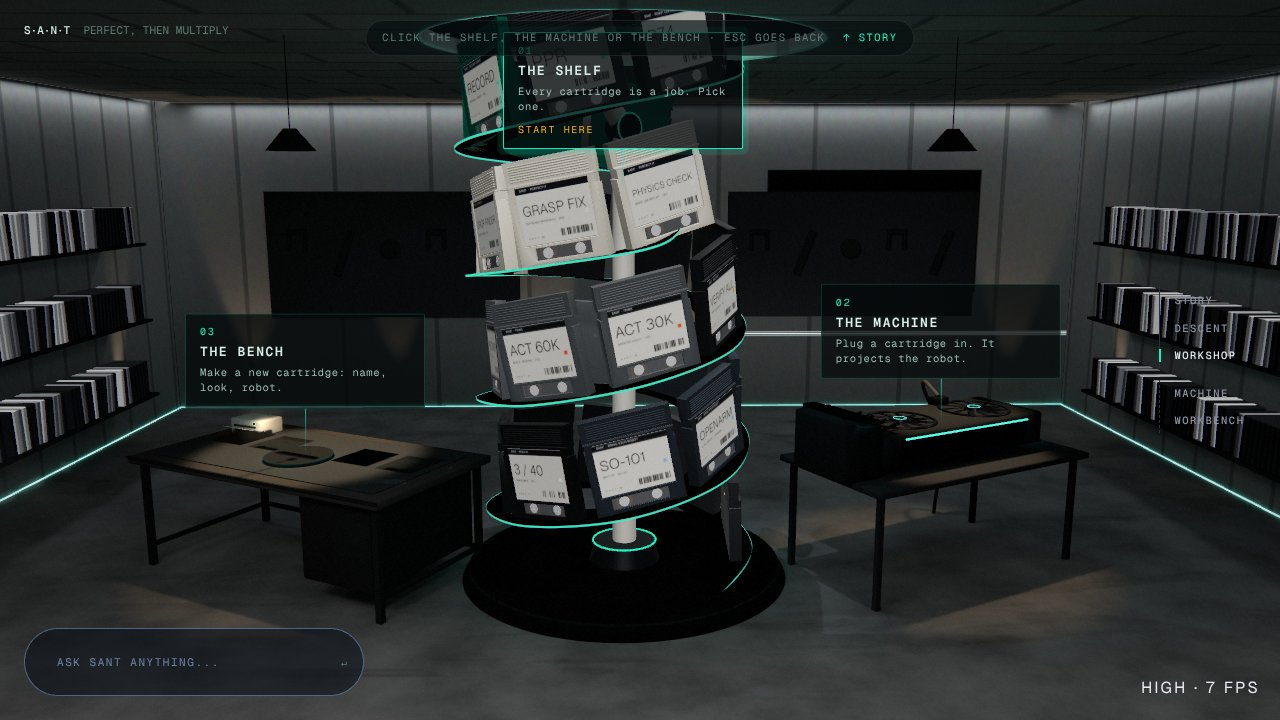
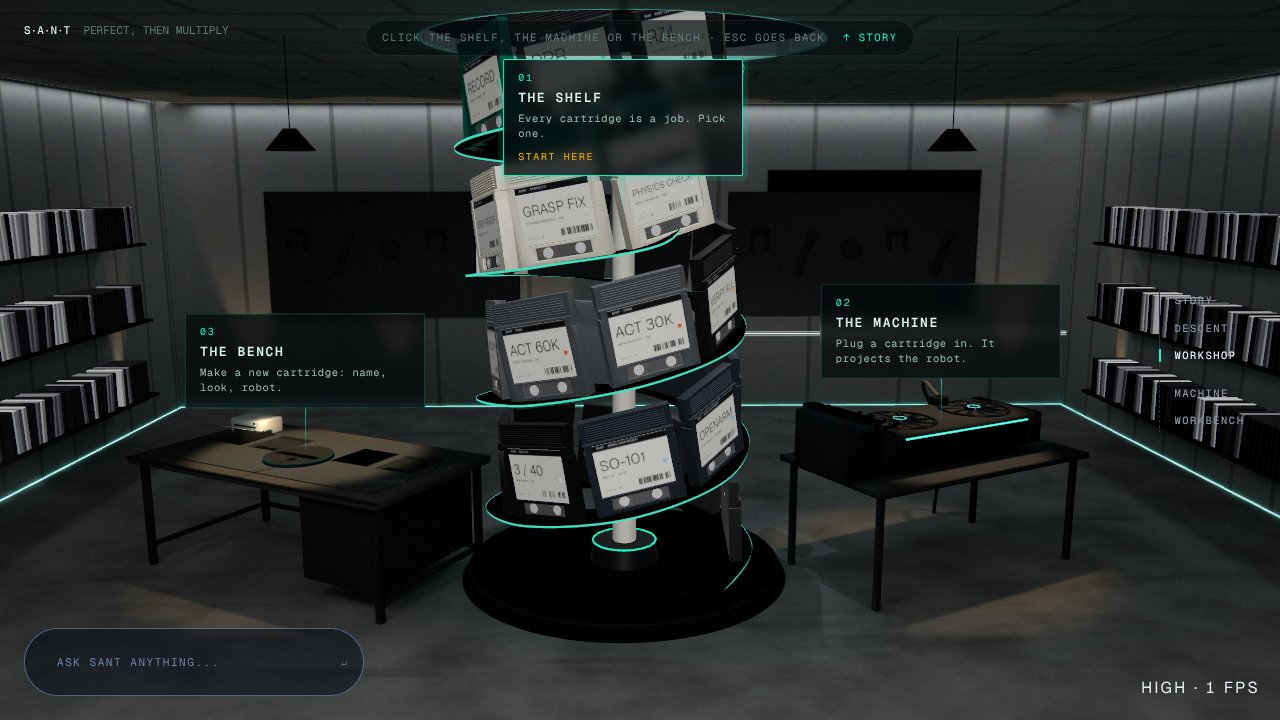
web(world): portrait screens see as much across as a square one; the shelf tag clears the hub bar
- core/fov.ts fitFov: the rig draws a portrait screen with a taller vertical field of view (up to
  80 degrees), so a phone held upright sees the whole logo and, in the hub, the shelf, the machine
  and the bench (it saw a 19-degree sliver: only the shelf). The intro's own logo shrink is gone.
- HubTags: the shelf's tag sits lower, under the hub bar instead of behind it at 1280x720.
- Phone screenshots for the note.

Claude-Session: https://claude.ai/code/session_015jwtNeqzmi9v9LnkjQ8Gcz

Changed region(s): [[0.375, 0.0306, 0.5938, 0.2444]]

diff --git a/web/src/world/stations/intro/Scene.tsx b/web/src/world/stations/intro/Scene.tsx
@@ -18,7 +18,7 @@ import type { QualityTier } from "../../core/quality";
 import { useWorld } from "../../core/WorldContext";
 import type { StationSceneProps } from "../../core/types";
 import { onPointer, pointer } from "../../ui/pointer";
-import { DUST, fitFor, LOGO, LOGO_R, logoFit, RING } from "./layout";
+import { DUST, LOGO, LOGO_R, RING } from "./layout";
 import { extrudeLogo, logoShapes } from "./logo3d";
 import { MARK_URL } from "./mark";
 import { dustBuffers } from "./particles";
@@ -230,7 +230,6 @@ export function IntroScene({ frame, quality, reduced }: StationSceneProps) {
   const scene = useThree((s) => s.scene);
   const camera = useThree((s) => s.camera);
   const invalidate = useThree((s) => s.invalidate);
-  const size = useThree((s) => s.size);
   const svg = useMarkSvg();
   const env = useStudio();
   const low = quality.name === "low";
@@ -287,7 +286,6 @@ export function IntroScene({ frame, quality, reduced }: StationSceneProps) {
 
     const vh = frame.t * INTRO_VH;
     const pose = logoPose(vh);
-    const fit = (logoFit.value = fitFor(size.width / Math.max(1, size.height)));
     // The descent's first moments: the ring bursts into the generator's particles.
     const burst = smooth(0.02, 0.2, store.frames.descent.t);
     const idle = quality.idleMotion && !reduced;
@@ -298,7 +296,7 @@ export function IntroScene({ frame, quality, reduced }: StationSceneProps) {
       if (idle) s.spin = (s.spin + dt * SPIN * free) % (Math.PI * 2);
       const spin = (s.spin > Math.PI ? s.spin - Math.PI * 2 : s.spin) * free;
       logo.group.rotation.set(pose.tilt - s.my * 0.14 * free, pose.turn + spin + s.mx * 0.22 * free, 0);
-      logo.group.scale.setScalar(LOGO_R * fit * (reduced ? 1 : Math.max(0.001, easeOutBack(grow))));
+      logo.group.scale.setScalar(LOGO_R * (reduced ? 1 : Math.max(0.001, easeOutBack(grow))));
       // The core spins away into the centre; the arcs stay until the ring's tube has closed over them.
       const coreK = 1 - smooth(0, 0.6, pose.morph);
       logo.core.scale.setScalar(Math.max(0.001, coreK));
@@ -308,7 +306,6 @@ export function IntroScene({ frame, quality, reduced }: StationSceneProps) {
     }
     ring.tube.value = smooth(0.12, 0.85, pose.morph) * (1 - burst);
     ring.mesh.visible = ring.tube.value > 0.002;
-    ring.mesh.scale.setScalar((LOGO_R / RING.radius) * fit);
     ring.mesh.rotation.z = now * 0.08;
     ring.mat.iridescenceThicknessRange[1] = 700 + 220 * Math.sin(now * 0.7 + s.mx * 2);
 

diff --git a/web/src/world/stations/descent/Generator.tsx b/web/src/world/stations/descent/Generator.tsx
@@ -15,14 +15,13 @@ import type { StationFrame } from "../../core/types";
 import { BAKED, bakedUrl, type BakedName } from "../../scene/assets";
 import { DISSOLVE_EDGE, DISSOLVE_GLSL, dissolve, FIELD_MAX } from "../../scene/dissolve";
 import { HELIX, LIBRARY, type Slot } from "../../scene/layout";
-import { LOGO, LOGO_R, LOGO_SCALE, logoFit, RING } from "../intro/layout";
+import { LOGO, LOGO_R, LOGO_SCALE, RING } from "../intro/layout";
 import { seeded } from "../intro/particles";
 import { POINTS, SHARES, sampleBox, sampleTriangles, splitBudget, type Piece } from "./generatorPlan";
 
 const vert = /* glsl */ `
 attribute vec3 aStart; attribute vec3 aMid; attribute vec3 aColor; attribute vec4 aRand;
-uniform float uP, uTime, uReveal, uPR, uSize, uFit;
-uniform vec3 uLogo;
+uniform float uP, uTime, uReveal, uPR, uSize;
 uniform vec3 uTeal, uWhite;
 varying vec3 vC; varying float vA;
 ${DISSOLVE_GLSL}
@@ -33,8 +32,7 @@ void main(){
   float h = clamp((position.y + .6) / 15., 0., 1.);
   float c = .55 * r2 + .45 * h;
   float e2 = smoothstep(.34 + .32 * c, .62 + .32 * c, uP);
-  // The ring as drawn (narrow screens shrink it: intro/layout.ts logoFit).
-  vec3 p = mix(uLogo + (aStart - uLogo) * uFit, aMid, e1);
+  vec3 p = mix(aStart, aMid, e1);
   float t = uTime * .5 + r1 * 40.;
   p += vec3(sin(t * 1.3 + aRand.z * 9.), cos(t * 1.1 + aRand.w * 9.), sin(t * .9 + r2 * 9.)) * (.7 * e1 * (1. - e2));
   vec3 q = mix(p, position, e2);
@@ -205,8 +203,6 @@ export function Generator({ frame, quality, reduced }: { frame: StationFrame; qu
       blending: THREE.AdditiveBlending,
       uniforms: {
         uP: { value: 0 },
-        uFit: { value: 1 },
-        uLogo: { value: new THREE.Vector3(...LOGO) },
         uTime: { value: 0 },
         uReveal: dissolve.reveal,
         uPR: { value: 1 },
@@ -235,7 +231,6 @@ export function Generator({ frame, quality, reduced }: { frame: StationFrame; qu
     const u = points.material.uniforms;
     const p = frame.t;
     u.uP.value = p;
-    u.uFit.value = logoFit.value;
     u.uTime.value = clock.elapsedTime;
     u.uPR.value = gl.getPixelRatio();
     // Drawn from the burst until the room has taken over every particle.

diff --git a/web/src/world/core/CameraRig.tsx b/web/src/world/core/CameraRig.tsx
@@ -4,6 +4,7 @@
 import { useEffect, useRef } from "react";
 import { useFrame, useThree } from "@react-three/fiber";
 import type { PerspectiveCamera } from "three";
+import { fitFov } from "./fov";
 import { mixPose, poseAt, reducedPoseAt, restPose, smoother, toWorld } from "./rail";
 import { onPointer, pointer } from "../ui/pointer";
 import type { WorldStore } from "./store";
@@ -41,8 +42,10 @@ export function inHub(store: WorldStore): boolean {
 export function applyPose(camera: PerspectiveCamera, p: CameraPose): void {
   camera.position.set(p.position[0], p.position[1], p.position[2]);
   camera.lookAt(p.target[0], p.target[1], p.target[2]);
-  if (camera.fov !== p.fov) {
-    camera.fov = p.fov;
+  // Portrait screens see as much across as a square one (fov.ts).
+  const fov = fitFov(p.fov, camera.aspect);
+  if (camera.fov !== fov) {
+    camera.fov = fov;
     camera.updateProjectionMatrix();
   }
 }

diff --git a/web/src/world/stations/intro/layout.ts b/web/src/world/stations/intro/layout.ts
@@ -18,15 +18,5 @@ export const RING = { radius: 4.2, tube: 0.37 } as const;
 /** The ring's radius in world metres, which is also the 3D logo's scale (logo3d.ts: the arcs at 1). */
 export const LOGO_R = RING.radius * LOGO_SCALE;
 
-/**
- * How much the logo and its ring shrink to fit a narrow screen (1 at 16:9 and wider landscape; about
- * half on a phone held upright), so the whole mark stays in view. Written by the intro's Scene each
- * frame; the generator's burst starts from the ring at this size too.
- */
-export const logoFit = { value: 1 };
-
-/** logoFit for a viewport aspect (width / height). */
-export const fitFor = (aspect: number) => Math.min(1, Math.max(0.35, aspect));
-
 /** The dust: a column around the logo's space, from the room's floor to above the logo. */
 export const DUST = { radius: 22, y0: -0.6, height: 42 } as const;

diff --git a/web/src/world/core/fov.test.ts b/web/src/world/core/fov.test.ts
@@ -1,0 +1,22 @@
+import { describe, expect, it } from "vitest";
+import { fitFov, MAX_FOV } from "./fov";
+
+const hfov = (vfov: number, aspect: number) => (2 * Math.atan(Math.tan((vfov * Math.PI) / 360) * aspect) * 180) / Math.PI;
+
+describe("fitFov", () => {
+  it("leaves landscape and square screens alone", () => {
+    expect(fitFov(40, 16 / 9)).toBe(40);
+    expect(fitFov(40, 1)).toBe(40);
+  });
+
+  it("widens a portrait screen so it sees as much across as a square one", () => {
+    const f = fitFov(40, 0.75);
+    expect(f).toBeGreaterThan(40);
+    expect(hfov(f, 0.75)).toBeCloseTo(hfov(40, 1), 6);
+  });
+
+  it("never goes past MAX_FOV, however narrow", () => {
+    expect(fitFov(40, 0.2)).toBe(MAX_FOV);
+    expect(fitFov(70, 0.46)).toBeLessThanOrEqual(MAX_FOV);
+  });
+});

diff --git a/web/src/world/core/fov.ts b/web/src/world/core/fov.ts
@@ -1,0 +1,13 @@
+// The stations' camera poses are framed for landscape screens: a fixed vertical field of view. A phone
+// held upright then sees a sliver across (19° at 40° vertical on 390×844), so the logo ran off the sides
+// and the hub showed only the shelf. Here a portrait screen gets a taller field of view, so it sees as
+// much across as a square screen would, up to MAX_FOV (past that the perspective distorts).
+
+export const MAX_FOV = 80;
+
+/** The vertical field of view (degrees) to draw `fov` with at `aspect` (width / height). */
+export function fitFov(fov: number, aspect: number): number {
+  if (!(aspect < 1)) return fov;
+  const half = Math.atan(Math.tan((fov * Math.PI) / 360) / aspect);
+  return Math.min(MAX_FOV, (half * 360) / Math.PI);
+}

diff --git a/web/src/world/stations/workshop/HubTags.tsx b/web/src/world/stations/workshop/HubTags.tsx
@@ -44,7 +44,8 @@ export function HubTags() {
   const [tutorial] = useState(() => !seenBefore());
   const at = useMemo(
     () => ({
-      shelf: new THREE.Vector3(0, 12.2, 0),
+      // Under the hub bar at the top of the view (1280×720), not behind it.
+      shelf: new THREE.Vector3(0, 11.5, 0),
       machine: up(MACHINE_PIVOT.position, 6.2),
       bench: up(BENCH_PIVOT.position, 5.4),
     }),
